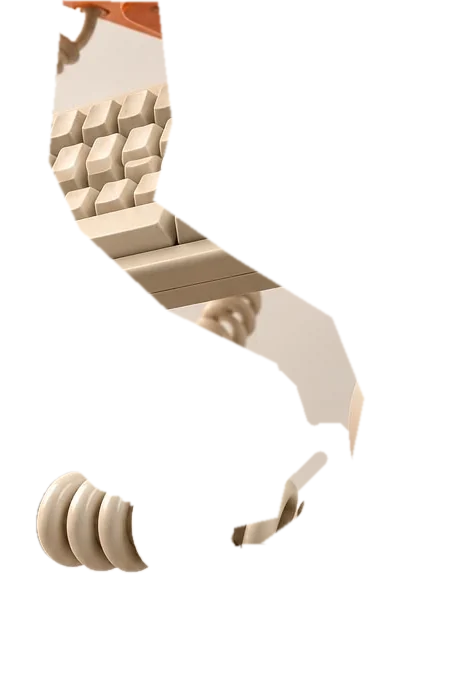
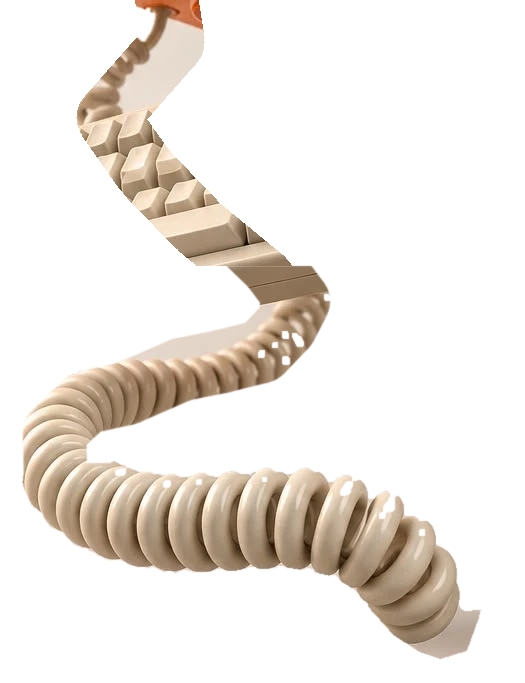
polish(v5): match editorial reference typography and repair continuous cable layers

Changed region(s): [[0.0308, 0.0, 0.9231, 0.9839]]

diff --git a/src/app/v5-desktop.css b/src/app/v5-desktop.css
@@ -225,3 +225,37 @@
   .v5-sticky,.v5-smile,.v5-orange-ring{animation:none!important}
   .v5-depth-composition,.v5-orange-computer{transition:none!important;will-change:auto}
 }
+
+
+/* V5.1: master viewport 1586x992 pixel-match corrections */
+@media(min-width:1100px) {
+  .v5-brand img { transform:translateY(11px) scale(.92); transform-origin:left center; }
+  .v5-navigation { left:49.7%; }
+  .v5-navigation button { padding-left:24px; padding-right:24px; color:#343137; }
+  .v5-navigation button.v5-current { color:#fff; }
+  .v5-headline { top:19.5%; font-size:clamp(53px,4.13vw,66px); }
+  .v5-stat { top:16.7%; right:.4%; }
+  .v5-soft { font-size:clamp(159px,13.6vw,216px); top:58.6%; }
+  .v5-tech { font-size:clamp(158px,13vw,206px); bottom:3.9%; right:1.5%; }
+  .v5-right-caption { right:1.1%; }
+  .v5-sticky { left:38.5%; top:17.8%; }
+  .v5-white-arc { left:28.3%; top:50.8%; }
+  .v5-orange-ring { top:81.3%; }
+  .v5-smile { top:51.4%; }
+  .v5-depth-cartridge { left:calc(2.93% - 31px)!important; top:calc(44.99% - 58px)!important; }
+  .v5-depth-cursor { left:calc(82.72% + 65px)!important; top:calc(50.19% - 125px)!important; }
+}
+@media(min-width:1100px) and (max-width:1400px) {
+  .v5-headline { font-size:clamp(43px,4.12vw,57px); }
+  .v5-navigation button { padding-left:17px; padding-right:17px; }
+  .v5-stat { right:-1.5%; transform:scale(.77); transform-origin:top right; }
+  .v5-right-caption { right:2.2%; width:210px; bottom:21.5%; font-size:12px; }
+  .v5-soft { font-size:clamp(137px,13vw,181px); }
+  .v5-tech { font-size:clamp(137px,12.6vw,176px); }
+  .v5-depth-cursor { left:calc(82.72% + 38px)!important; top:calc(50.19% - 92px)!important; }
+  .v5-depth-cartridge { left:calc(2.93% - 19px)!important; top:calc(44.99% - 43px)!important; }
+}
+@media (min-width:1800px) {
+  .v5-headline { font-size:66px; }
+  .v5-stat { right:3%; }
+}

diff --git a/src/components/v5-desktop-hero.tsx b/src/components/v5-desktop-hero.tsx
@@ -3,7 +3,7 @@ import { useEffect, useRef, useState, type PointerEvent, type CSSProperties } fr
 import { ArrowRight, ArrowDown, Globe2, Gamepad2, Instagram, Facebook, X, ChevronDown, LockKeyhole, Mail } from "lucide-react";
 
 const V5_LAYERS = [
-  { id: "cable", left: 230, top: 784, width: 455, height: 683, depthX: .44, depthY: .4 },
+  { id: "cable", left: 160, top: 784, width: 525, height: 683, depthX: .44, depthY: .4 },
   { id: "monitor", left: 120, top: 40, width: 860, height: 800, depthX: .35, depthY: .35 },
   { id: "keyboard", left: 20, top: 774, width: 716, height: 516, depthX: .67, depthY: .68 },
   { id: "printer", left: 556, top: 902, width: 468, height: 473, depthX: 1.12, depthY: 1.1 },
